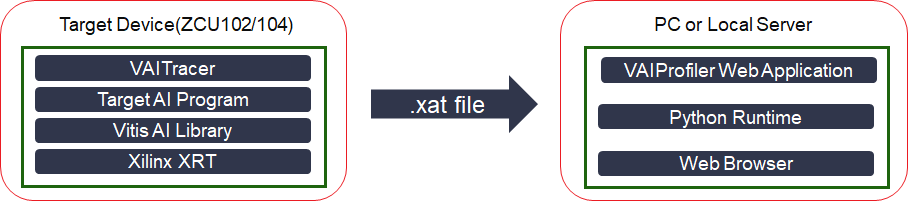
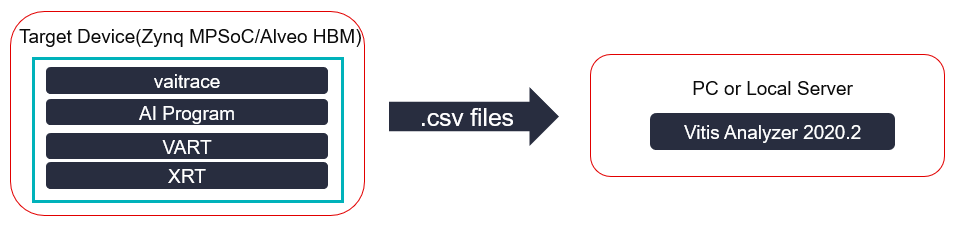
Update README.md of Vitis-AI-Profiler

diff --git a/tools/Vitis-AI-Profiler/examples.md b/tools/Vitis-AI-Profiler/examples.md
@@ -81,7 +81,7 @@ Upload all csv files and xclbin.ex.run_summary and open the xclbin.ex.run_summar
      @@ -136,9 +137,9 @@ def runResnet50(runner: "Runner", img, cnt):
               """softmax&TopK calculate with batch """
               """Benchmark DPU FPS performance over Vitis AI APIs execute_async() and wait() """
-              """Uncomment the following code snippet to include softmax calculation for model<E2><80><99>s end-to-end FPS evaluation """
+              """Uncomment the following code snippet to include softmax calculation for models end-to-end FPS evaluation """
      -        #for j in range(runSize):
      -        #    softmax = CPUCalcSoftmax(outputData[0][j], pre_output_size)
      -        #    TopK(softmax, pre_output_size, "./words.txt")
@@ -119,6 +119,63 @@ Edge: ZCU104
   - Open this xat file in broswer
     <p align="center"><img src="img/vitis_ai_profiler_web_gui.PNG"></p>
 
+### Fine Grained Profiling
+Fine grained profiling will force the xmodel run in debug model, and the result shows performance of each layer in the model
+- Device  
+Cloud: Alveo U50
+- Model  
+squeezenet_pytorch
+- Preparing 
+  1. Modify docker_run.sh to get debug permission
+      ```diff
+      --- a/docker_run.sh
+      +++ b/docker_run.sh
+      @@ -89,6 +89,7 @@ docker_run_params=$(cat <<-END
+           -e USER=$user -e UID=$uid -e GID=$gid \
+           -e VERSION=$VERSION \
+           -v $DOCKER_RUN_DIR:/vitis_ai_home \
+      +    -v /sys/kernel/debug:/sys/kernel/debug  --privileged=true \
+           -v $HERE:/workspace \
+           -w /workspace \
+           --rm \
+      ```
+  2. Run the docker
+      ```bash
+      $ ./docker_run.sh xilinx/vitis-ai-cpu:latest
+      ```
+  3. Setup Vitis-AI Environment  
+  [Quick Start For Alveo](https://github.com/Xilinx/Vitis-AI/blob/master/demo/VART/README.md)
+  4. Vaitrace requires XRT's xbutil tool, in Vitis-AI docker, before using vaitrace, we need some modification to get the special permission, edit the sudoers file and add XRT path(/opt/xilinx/xrt/bin/) to secure_path:  
+      ```bash
+      $ sudo visudo
+      ```
+      <p align="center"><img src="img/docker_secure_path.PNG" width="600px"></p>
+
+  5. Prepare configure file for fine grained profiling, save the json format configure as file squeezenet_pt_debug.json   
+      ```json
+      {
+        "options": {
+            "runmode": "debug"
+        }
+      }
+      ```
+- Starting Trace
+  ```bash
+  $ cd /workspace/demo/VART/squeezenet_pytorch
+  $ chmod 777 ./
+  $ sudo -E vaitrace -c ./squeezenet_pt_debug.json ./squeezenet_pytorch /usr/share/vitis_ai_library/models/squeezenet_pt/squeezenet_pt.xmodel
+  ```
+  - "sudo -E" is used to get root permission and preserve existing environment variables
+  - "vaitrace -c ./squeezenet_pt_debug.json" is used to start vaitrace for profiling and specify configure file
+  - the rest is the launching command for squeezenet_pytorch demo
+ 
+- Result  
+  vaitrace and XRT generate five files in total, four trace data files with .csv postfix and one summary file named xclbin.ex.run_summary, using vitis_analyzer to open the summary then click [Profile Summary] -> [DPU Summary]
+  ```bash
+  $ vitis_analyzer ./xclbin.ex.run_summary
+  ```
+  <p align="center"><img src="img/vitis_analyzer_dpu_summary_debug.PNG" width="600px"></p>
+  
 ### Profiling DPU together with HLS/OpenCL Kernels
 - Configuration  
   In the XRT 2020.2 and Vitis-AI 1.3 release, there are two distinct profiling paths in XRT. One is OpenCL profiling, enabled by "profile=true" and "timeline_trace=true",The second profiling path is enabled by "xrt_profile=true" option and the vaitrace is compatible with the second path only, and __"vitis_ai_profile=true" will be enabled by vaitrace automatically__. So, for 2020.2, it would recommend the following structure in xrt.ini file to profiling DPU and HLS/OpenCL kernels together:

diff --git a/tools/Vitis-AI-Profiler/README.md b/tools/Vitis-AI-Profiler/README.md
@@ -19,7 +19,7 @@ Vitis-AI Profiler is an application level tool that could help to optimize the w
 
 ## Vitis AI Profiler Architecture
 <div align="center">
-<img width="800px" src="img/arch_v1.3.png"/>
+<img width="800px" src="img/arch.png"/>
 </div>  
 
 ## Why Vitis AI Profiler
@@ -80,24 +80,14 @@ From Vitis-AI v1.3, [Vitis Analyzer](https://www.xilinx.com/html_docs/xilinx2020
     - Preparing debug environment for docker
       If you are using Vitis AI with docker, please add this patch to docker_run.sh to get root permission for vaitrace  
       ```diff
-      --- a/docker_run.sh
-      +++ b/docker_run.sh
-      @@ -94,6 +94,7 @@ if [[ $IMAGE_NAME == *"gpu"* ]]; then
+      @@ -89,6 +71,7 @@ docker_run_params=$(cat <<-END
            -e USER=$user -e UID=$uid -e GID=$gid \
            -e VERSION=$VERSION \
-           -v $HERE:/workspace \
+           -v $DOCKER_RUN_DIR:/vitis_ai_home \
       +    -v /sys/kernel/debug:/sys/kernel/debug  --privileged=true \
+           -v $HERE:/workspace \
            -w /workspace \
            --rm \
-           --runtime=nvidia \
-      @@ -111,6 +112,7 @@ else
-           -e USER=$user -e UID=$uid -e GID=$gid \
-           -e VERSION=$VERSION \
-           -v $HERE:/workspace \
-      +    -v /sys/kernel/debug:/sys/kernel/debug  --privileged=true \
-           -w /workspace \
-           --rm \
-           --network=host \
 
       ```
       - This step is only required for Alveo devices working in docker environment   
